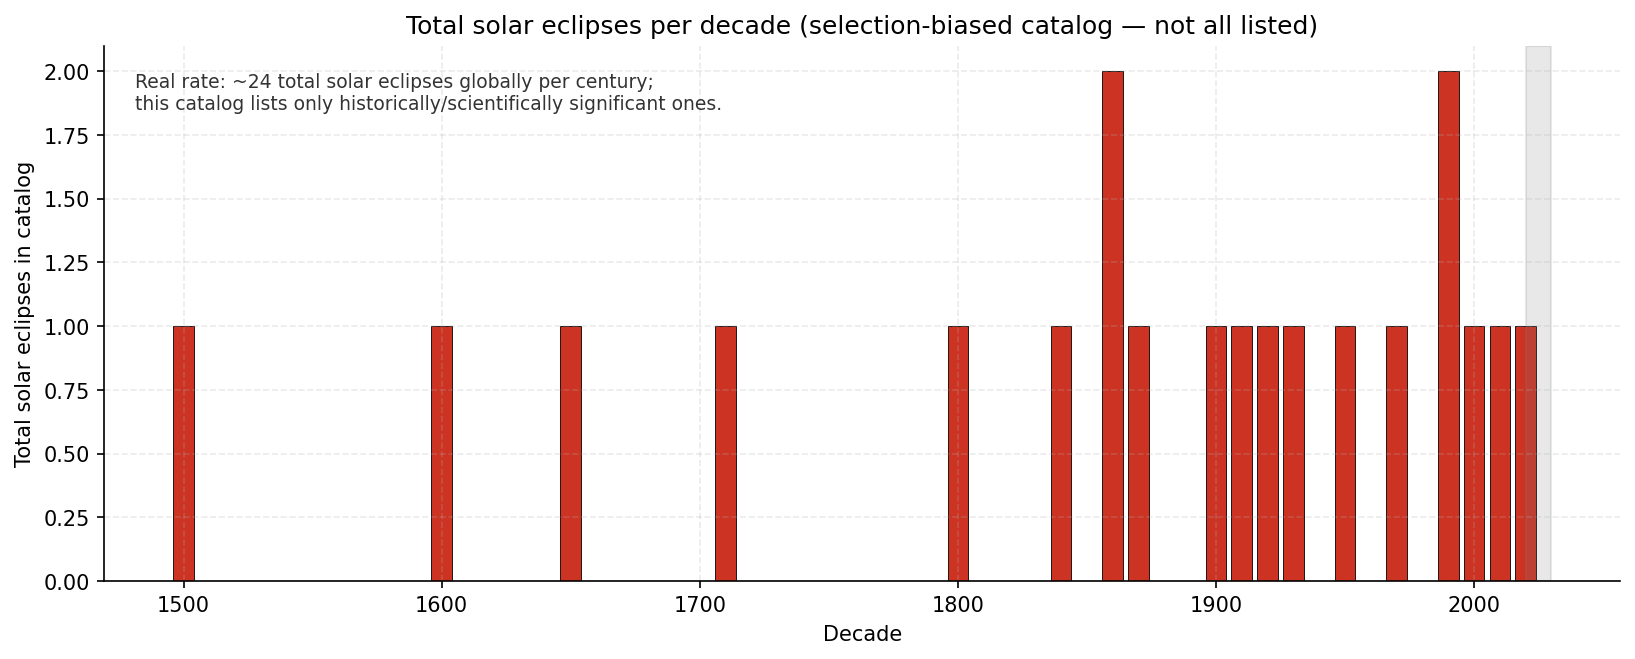
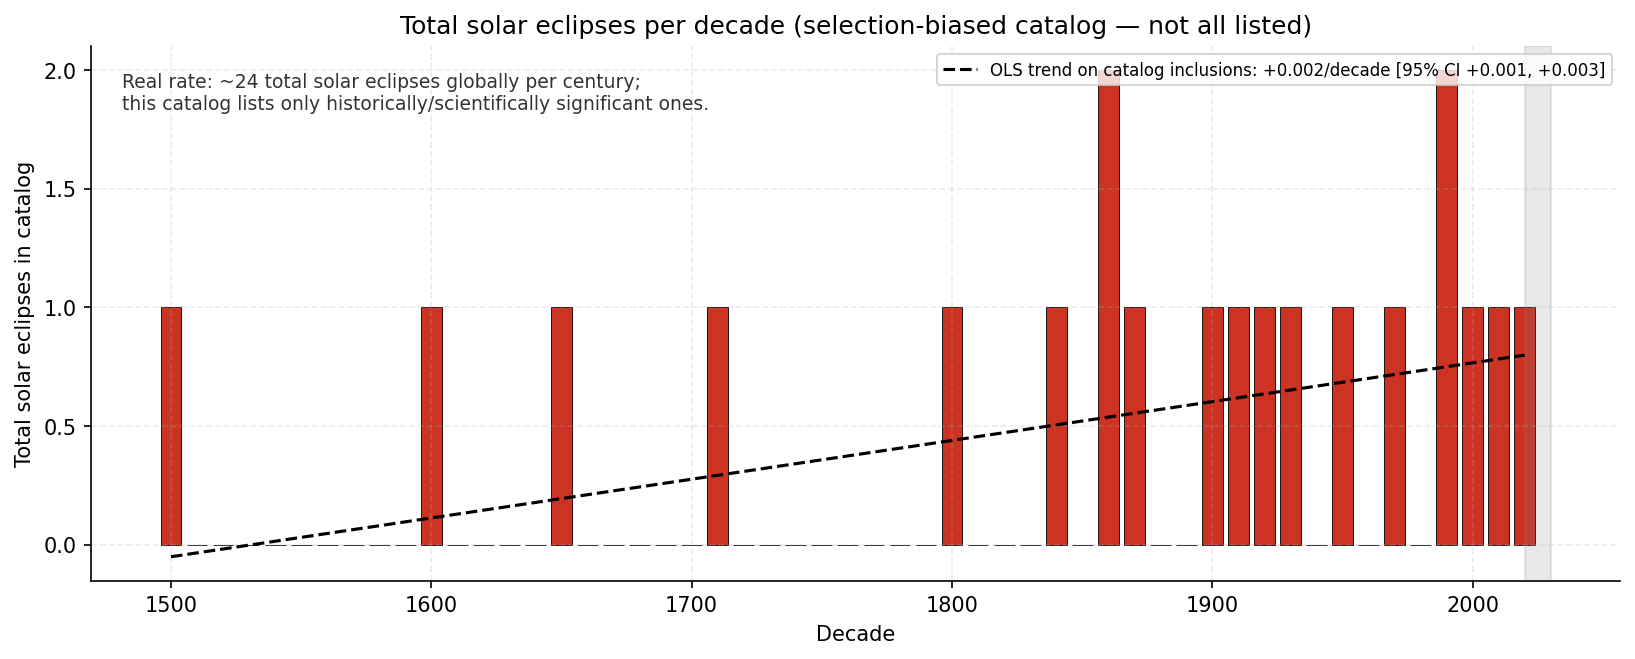
Add trend line + bootstrap CI to plot_02 (selection-bias note)

diff --git a/make_plots.py b/make_plots.py
@@ -81,9 +81,28 @@ def plot_02_eclipses_per_decade(df: pd.DataFrame):
               f"Real rate: ~24 total solar eclipses globally per century;\nthis catalog lists "
               f"only historically/scientifically significant ones.",
               transform=ax.transAxes, fontsize=9, va="top", alpha=0.8)
+    # Trend on per-decade catalog count (NB: this is selection-bias dominated)
+    counts_arr = np.array(counts, dtype=float)
+    full_mask = decades < PARTIAL_DECADE_START
+    x_fit = decades[full_mask]; y_fit = counts_arr[full_mask]
+    if (y_fit > 0).sum() >= 3:
+        slope, intercept = np.polyfit(x_fit, y_fit, 1)
+        rng = np.random.default_rng(42)
+        boot = []
+        for _ in range(2000):
+            idx = rng.integers(0, len(x_fit), len(x_fit))
+            s, _ = np.polyfit(x_fit[idx], y_fit[idx], 1)
+            boot.append(s)
+        ci_lo, ci_hi = np.percentile(boot, [2.5, 97.5])
+        ax.plot(decades, slope * decades + intercept, "k--", linewidth=1.5,
+                  label=f"OLS trend on catalog inclusions: {slope:+.3f}/decade [95% CI {ci_lo:+.3f}, {ci_hi:+.3f}]")
+        ax.legend(loc="upper right", fontsize=8)
+    else:
+        slope, ci_lo, ci_hi = np.nan, np.nan, np.nan
     plt.tight_layout()
     plt.savefig(PLOTS / "02_eclipses_per_decade.png")
     plt.close()
+    return slope, ci_lo, ci_hi
 
 
 def plot_03_comets_timeline(df: pd.DataFrame):
@@ -151,7 +170,9 @@ def main():
     print(f"Loaded {len(df)} astronomical events")
     print(f"Types: {df['type'].value_counts().to_dict()}")
     plot_01_events_timeline(df)
-    plot_02_eclipses_per_decade(df)
+    slope, lo, hi = plot_02_eclipses_per_decade(df)
+    print(f"Decadal eclipse-catalog trend ({CATALOG_START}+): {slope:+.3f}/decade "
+            f"[95% CI {lo:+.3f}, {hi:+.3f}] — note this reflects historian attention not actual rate")
     plot_03_comets_timeline(df)
     plot_04_supernovae(df)
     print(f"Wrote 4 plots to {PLOTS}/")
